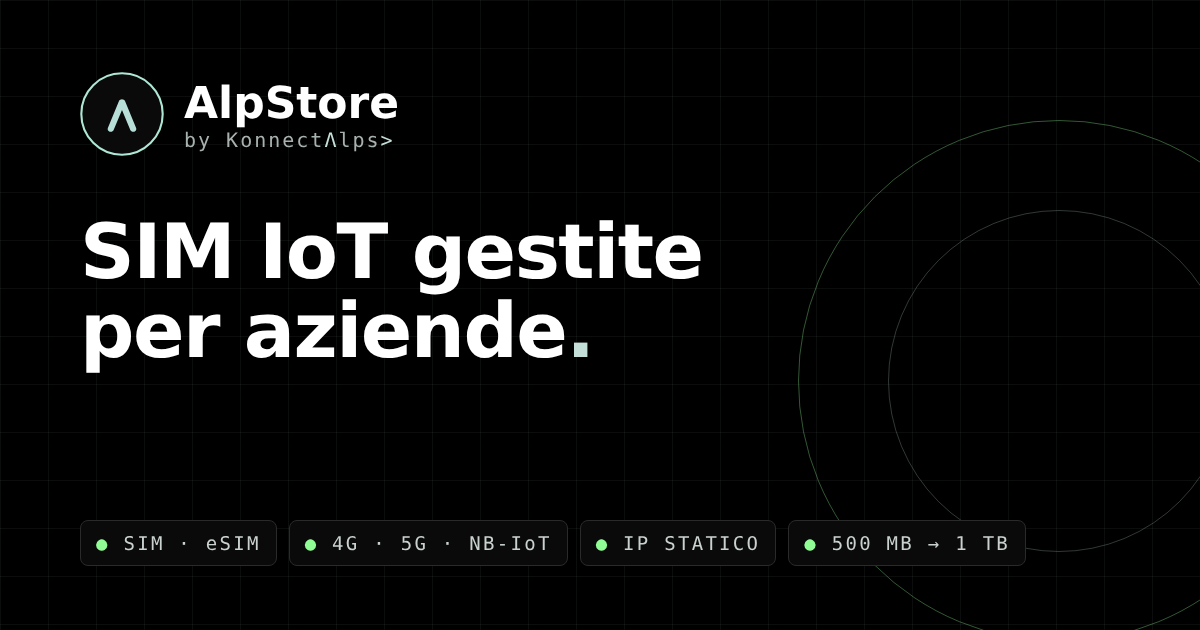
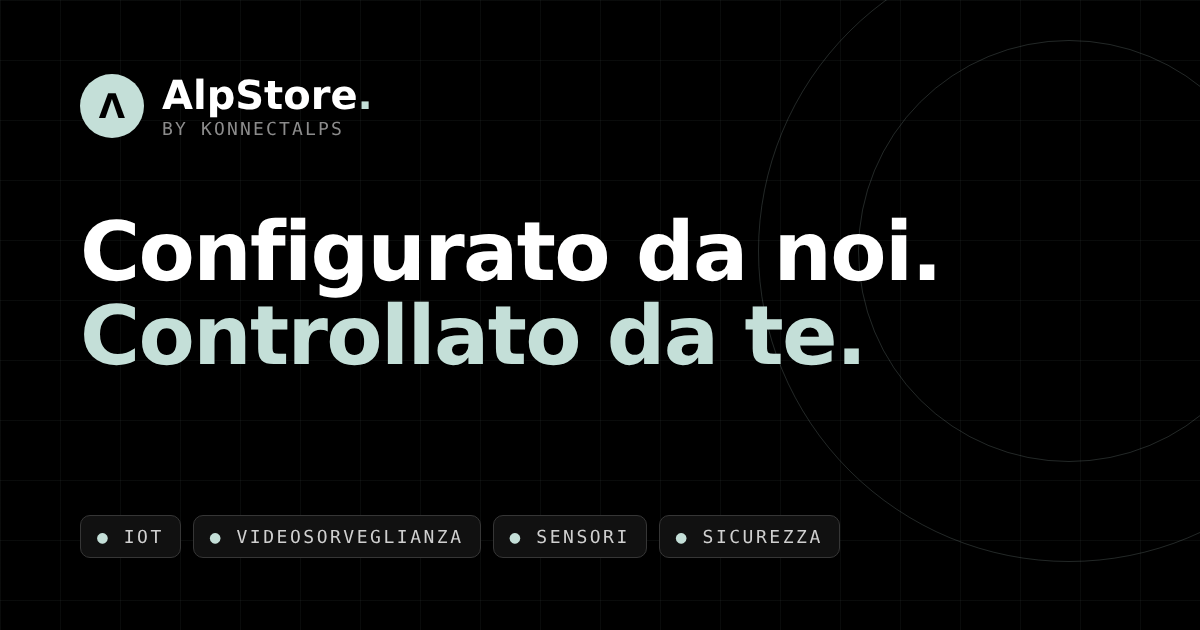
New share image, Organization structured data with social profiles, image cache refresh
Claude-Session: https://claude.ai/code/session_01KcWzBZJEkghzNG6pxDxXb5

diff --git a/index.html b/index.html
@@ -1,7 +1,7 @@
 <!doctype html>
 <html lang="it"><head><meta charset="utf-8"><meta name="viewport" content="width=device-width, initial-scale=1">
 <title>AlpStore · SIM IoT, telecamere e sensori gestiti per aziende</title><meta name="description" content="SIM IoT e 5G, videosorveglianza e sensori per aziende e PA: configurati, protetti e monitorati da KonnectAlps. Tu li controlli da un unico portale.">
-<link rel="canonical" href="https://alpstore.it/"><meta property="og:type" content="website"><meta property="og:title" content="AlpStore · SIM IoT, telecamere e sensori gestiti per aziende"><meta property="og:description" content="SIM IoT e 5G, videosorveglianza e sensori per aziende e PA: configurati, protetti e monitorati da KonnectAlps. Tu li controlli da un unico portale."><meta property="og:url" content="https://alpstore.it/"><meta property="og:image" content="https://alpstore.it/og.png"><meta property="og:locale" content="it_IT">
+<link rel="canonical" href="https://alpstore.it/"><meta property="og:type" content="website"><meta property="og:title" content="AlpStore · SIM IoT, telecamere e sensori gestiti per aziende"><meta property="og:description" content="SIM IoT e 5G, videosorveglianza e sensori per aziende e PA: configurati, protetti e monitorati da KonnectAlps. Tu li controlli da un unico portale."><meta property="og:url" content="https://alpstore.it/"><meta property="og:image" content="https://alpstore.it/og.png?v=2"><meta property="og:image:width" content="1200"><meta property="og:image:height" content="630"><meta name="twitter:card" content="summary_large_image"><meta property="og:locale" content="it_IT">
 <link rel="icon" href="/icon-512.png"><link rel="apple-touch-icon" href="/apple-touch-icon.png"><meta name="theme-color" content="#000000">
 <style>@font-face{font-family:"KA Sans";src:url(/fonts/ka-sans-400.woff2) format("woff2");font-weight:400;font-display:swap}
 @font-face{font-family:"KA Sans";src:url(/fonts/ka-sans-700.woff2) format("woff2");font-weight:600 700;font-display:swap}

diff --git a/videosorveglianza/index.html b/videosorveglianza/index.html
@@ -1,7 +1,7 @@
 <!doctype html>
 <html lang="it"><head><meta charset="utf-8"><meta name="viewport" content="width=device-width, initial-scale=1">
 <title>Videosorveglianza e sensori UniFi · AlpStore</title><meta name="description" content="Telecamere, controllo accessi e sensori UniFi installati in rete privata e seguiti da noi. Registrazione in sede, anche senza linea.">
-<link rel="canonical" href="https://alpstore.it/videosorveglianza/"><meta property="og:type" content="website"><meta property="og:title" content="Videosorveglianza e sensori UniFi · AlpStore"><meta property="og:description" content="Telecamere, controllo accessi e sensori UniFi installati in rete privata e seguiti da noi. Registrazione in sede, anche senza linea."><meta property="og:url" content="https://alpstore.it/videosorveglianza/"><meta property="og:image" content="https://alpstore.it/og.png"><meta property="og:locale" content="it_IT">
+<link rel="canonical" href="https://alpstore.it/videosorveglianza/"><meta property="og:type" content="website"><meta property="og:title" content="Videosorveglianza e sensori UniFi · AlpStore"><meta property="og:description" content="Telecamere, controllo accessi e sensori UniFi installati in rete privata e seguiti da noi. Registrazione in sede, anche senza linea."><meta property="og:url" content="https://alpstore.it/videosorveglianza/"><meta property="og:image" content="https://alpstore.it/og.png?v=2"><meta property="og:image:width" content="1200"><meta property="og:image:height" content="630"><meta name="twitter:card" content="summary_large_image"><meta property="og:locale" content="it_IT">
 <link rel="icon" href="/icon-512.png"><link rel="apple-touch-icon" href="/apple-touch-icon.png"><meta name="theme-color" content="#000000">
 <style>@font-face{font-family:"KA Sans";src:url(/fonts/ka-sans-400.woff2) format("woff2");font-weight:400;font-display:swap}
 @font-face{font-family:"KA Sans";src:url(/fonts/ka-sans-700.woff2) format("woff2");font-weight:600 700;font-display:swap}

diff --git a/prodotti/index.html b/prodotti/index.html
@@ -1,7 +1,7 @@
 <!doctype html>
 <html lang="it"><head><meta charset="utf-8"><meta name="viewport" content="width=device-width, initial-scale=1">
 <title>Prodotti UniFi, Teltonika, MikroTik e ZTE · AlpStore</title><meta name="description" content="Telecamere, sensori, router 4G e 5G, gateway IoT e antenne: arrivano configurati e nel monitoraggio.">
-<link rel="canonical" href="https://alpstore.it/prodotti/"><meta property="og:type" content="website"><meta property="og:title" content="Prodotti UniFi, Teltonika, MikroTik e ZTE · AlpStore"><meta property="og:description" content="Telecamere, sensori, router 4G e 5G, gateway IoT e antenne: arrivano configurati e nel monitoraggio."><meta property="og:url" content="https://alpstore.it/prodotti/"><meta property="og:image" content="https://alpstore.it/og.png"><meta property="og:locale" content="it_IT">
+<link rel="canonical" href="https://alpstore.it/prodotti/"><meta property="og:type" content="website"><meta property="og:title" content="Prodotti UniFi, Teltonika, MikroTik e ZTE · AlpStore"><meta property="og:description" content="Telecamere, sensori, router 4G e 5G, gateway IoT e antenne: arrivano configurati e nel monitoraggio."><meta property="og:url" content="https://alpstore.it/prodotti/"><meta property="og:image" content="https://alpstore.it/og.png?v=2"><meta property="og:image:width" content="1200"><meta property="og:image:height" content="630"><meta name="twitter:card" content="summary_large_image"><meta property="og:locale" content="it_IT">
 <link rel="icon" href="/icon-512.png"><link rel="apple-touch-icon" href="/apple-touch-icon.png"><meta name="theme-color" content="#000000">
 <style>@font-face{font-family:"KA Sans";src:url(/fonts/ka-sans-400.woff2) format("woff2");font-weight:400;font-display:swap}
 @font-face{font-family:"KA Sans";src:url(/fonts/ka-sans-700.woff2) format("woff2");font-weight:600 700;font-display:swap}

diff --git a/configuratore/index.html b/configuratore/index.html
@@ -1,7 +1,7 @@
 <!doctype html>
 <html lang="it"><head><meta charset="utf-8"><meta name="viewport" content="width=device-width, initial-scale=1">
 <title>Progetta la tua soluzione · AlpStore</title><meta name="description" content="Scegli il caso d’uso, quanti mezzi o sedi e cosa ti serve: un tecnico KonnectAlps ti manda il progetto.">
-<link rel="canonical" href="https://alpstore.it/configuratore/"><meta property="og:type" content="website"><meta property="og:title" content="Progetta la tua soluzione · AlpStore"><meta property="og:description" content="Scegli il caso d’uso, quanti mezzi o sedi e cosa ti serve: un tecnico KonnectAlps ti manda il progetto."><meta property="og:url" content="https://alpstore.it/configuratore/"><meta property="og:image" content="https://alpstore.it/og.png"><meta property="og:locale" content="it_IT">
+<link rel="canonical" href="https://alpstore.it/configuratore/"><meta property="og:type" content="website"><meta property="og:title" content="Progetta la tua soluzione · AlpStore"><meta property="og:description" content="Scegli il caso d’uso, quanti mezzi o sedi e cosa ti serve: un tecnico KonnectAlps ti manda il progetto."><meta property="og:url" content="https://alpstore.it/configuratore/"><meta property="og:image" content="https://alpstore.it/og.png?v=2"><meta property="og:image:width" content="1200"><meta property="og:image:height" content="630"><meta name="twitter:card" content="summary_large_image"><meta property="og:locale" content="it_IT">
 <link rel="icon" href="/icon-512.png"><link rel="apple-touch-icon" href="/apple-touch-icon.png"><meta name="theme-color" content="#000000">
 <style>@font-face{font-family:"KA Sans";src:url(/fonts/ka-sans-400.woff2) format("woff2");font-weight:400;font-display:swap}
 @font-face{font-family:"KA Sans";src:url(/fonts/ka-sans-700.woff2) format("woff2");font-weight:600 700;font-display:swap}

diff --git a/condizioni-generali/index.html b/condizioni-generali/index.html
@@ -1,7 +1,7 @@
 <!doctype html>
 <html lang="it"><head><meta charset="utf-8"><meta name="viewport" content="width=device-width, initial-scale=1">
 <title>Condizioni generali di contratto · AlpStore</title><meta name="description" content="Condizioni generali di contratto di KonnectAlps S.r.l., valide per i servizi AlpStore.">
-<link rel="canonical" href="https://alpstore.it/condizioni-generali/"><meta property="og:type" content="website"><meta property="og:title" content="AlpStore · SIM IoT, telecamere e sensori gestiti per aziende"><meta property="og:description" content="SIM IoT e 5G, videosorveglianza e sensori per aziende e PA: configurati, protetti e monitorati da KonnectAlps. Tu li controlli da un unico portale."><meta property="og:url" content="https://alpstore.it/condizioni-generali/"><meta property="og:image" content="https://alpstore.it/og.png"><meta property="og:locale" content="it_IT">
+<link rel="canonical" href="https://alpstore.it/condizioni-generali/"><meta property="og:type" content="website"><meta property="og:title" content="AlpStore · SIM IoT, telecamere e sensori gestiti per aziende"><meta property="og:description" content="SIM IoT e 5G, videosorveglianza e sensori per aziende e PA: configurati, protetti e monitorati da KonnectAlps. Tu li controlli da un unico portale."><meta property="og:url" content="https://alpstore.it/condizioni-generali/"><meta property="og:image" content="https://alpstore.it/og.png?v=2"><meta property="og:locale" content="it_IT">
 <link rel="icon" href="/icon-512.png"><link rel="apple-touch-icon" href="/apple-touch-icon.png"><meta name="theme-color" content="#000000">
 <style>@font-face{font-family:"KA Sans";src:url(/fonts/ka-sans-400.woff2) format("woff2");font-weight:400;font-display:swap}
 @font-face{font-family:"KA Sans";src:url(/fonts/ka-sans-700.woff2) format("woff2");font-weight:600 700;font-display:swap}

diff --git a/sicurezza/index.html b/sicurezza/index.html
@@ -1,7 +1,7 @@
 <!doctype html>
 <html lang="it"><head><meta charset="utf-8"><meta name="viewport" content="width=device-width, initial-scale=1">
 <title>Sicurezza IoT e lavoratori isolati · AlpStore</title><meta name="description" content="Sensori e SIM gestite senza esposizione su internet, e allarme uomo a terra per chi lavora da solo.">
-<link rel="canonical" href="https://alpstore.it/sicurezza/"><meta property="og:type" content="website"><meta property="og:title" content="Sicurezza IoT e lavoratori isolati · AlpStore"><meta property="og:description" content="Sensori e SIM gestite senza esposizione su internet, e allarme uomo a terra per chi lavora da solo."><meta property="og:url" content="https://alpstore.it/sicurezza/"><meta property="og:image" content="https://alpstore.it/og.png"><meta property="og:locale" content="it_IT">
+<link rel="canonical" href="https://alpstore.it/sicurezza/"><meta property="og:type" content="website"><meta property="og:title" content="Sicurezza IoT e lavoratori isolati · AlpStore"><meta property="og:description" content="Sensori e SIM gestite senza esposizione su internet, e allarme uomo a terra per chi lavora da solo."><meta property="og:url" content="https://alpstore.it/sicurezza/"><meta property="og:image" content="https://alpstore.it/og.png?v=2"><meta property="og:image:width" content="1200"><meta property="og:image:height" content="630"><meta name="twitter:card" content="summary_large_image"><meta property="og:locale" content="it_IT">
 <link rel="icon" href="/icon-512.png"><link rel="apple-touch-icon" href="/apple-touch-icon.png"><meta name="theme-color" content="#000000">
 <style>@font-face{font-family:"KA Sans";src:url(/fonts/ka-sans-400.woff2) format("woff2");font-weight:400;font-display:swap}
 @font-face{font-family:"KA Sans";src:url(/fonts/ka-sans-700.woff2) format("woff2");font-weight:600 700;font-display:swap}

diff --git a/iot/index.html b/iot/index.html
@@ -1,7 +1,7 @@
 <!doctype html>
 <html lang="it"><head><meta charset="utf-8"><meta name="viewport" content="width=device-width, initial-scale=1">
 <title>IoT e SIM gestite per aziende · AlpStore</title><meta name="description" content="SIM IoT 4G e NB-IoT e SIM 5G dati per aziende: configurate, protette e monitorate da KonnectAlps, tutte visibili in un unico portale.">
-<link rel="canonical" href="https://alpstore.it/iot/"><meta property="og:type" content="website"><meta property="og:title" content="IoT e SIM gestite per aziende · AlpStore"><meta property="og:description" content="SIM IoT e 5G, videosorveglianza e sensori per aziende e PA: configurati, protetti e monitorati da KonnectAlps. Tu li controlli da un unico portale."><meta property="og:url" content="https://alpstore.it/iot/"><meta property="og:image" content="https://alpstore.it/og.png"><meta property="og:locale" content="it_IT">
+<link rel="canonical" href="https://alpstore.it/iot/"><meta property="og:type" content="website"><meta property="og:title" content="IoT e SIM gestite per aziende · AlpStore"><meta property="og:description" content="SIM IoT e 5G, videosorveglianza e sensori per aziende e PA: configurati, protetti e monitorati da KonnectAlps. Tu li controlli da un unico portale."><meta property="og:url" content="https://alpstore.it/iot/"><meta property="og:image" content="https://alpstore.it/og.png?v=2"><meta property="og:locale" content="it_IT">
 <link rel="icon" href="/icon-512.png"><link rel="apple-touch-icon" href="/apple-touch-icon.png"><meta name="theme-color" content="#000000">
 <style>@font-face{font-family:"KA Sans";src:url(/fonts/ka-sans-400.woff2) format("woff2");font-weight:400;font-display:swap}
 @font-face{font-family:"KA Sans";src:url(/fonts/ka-sans-700.woff2) format("woff2");font-weight:600 700;font-display:swap}
